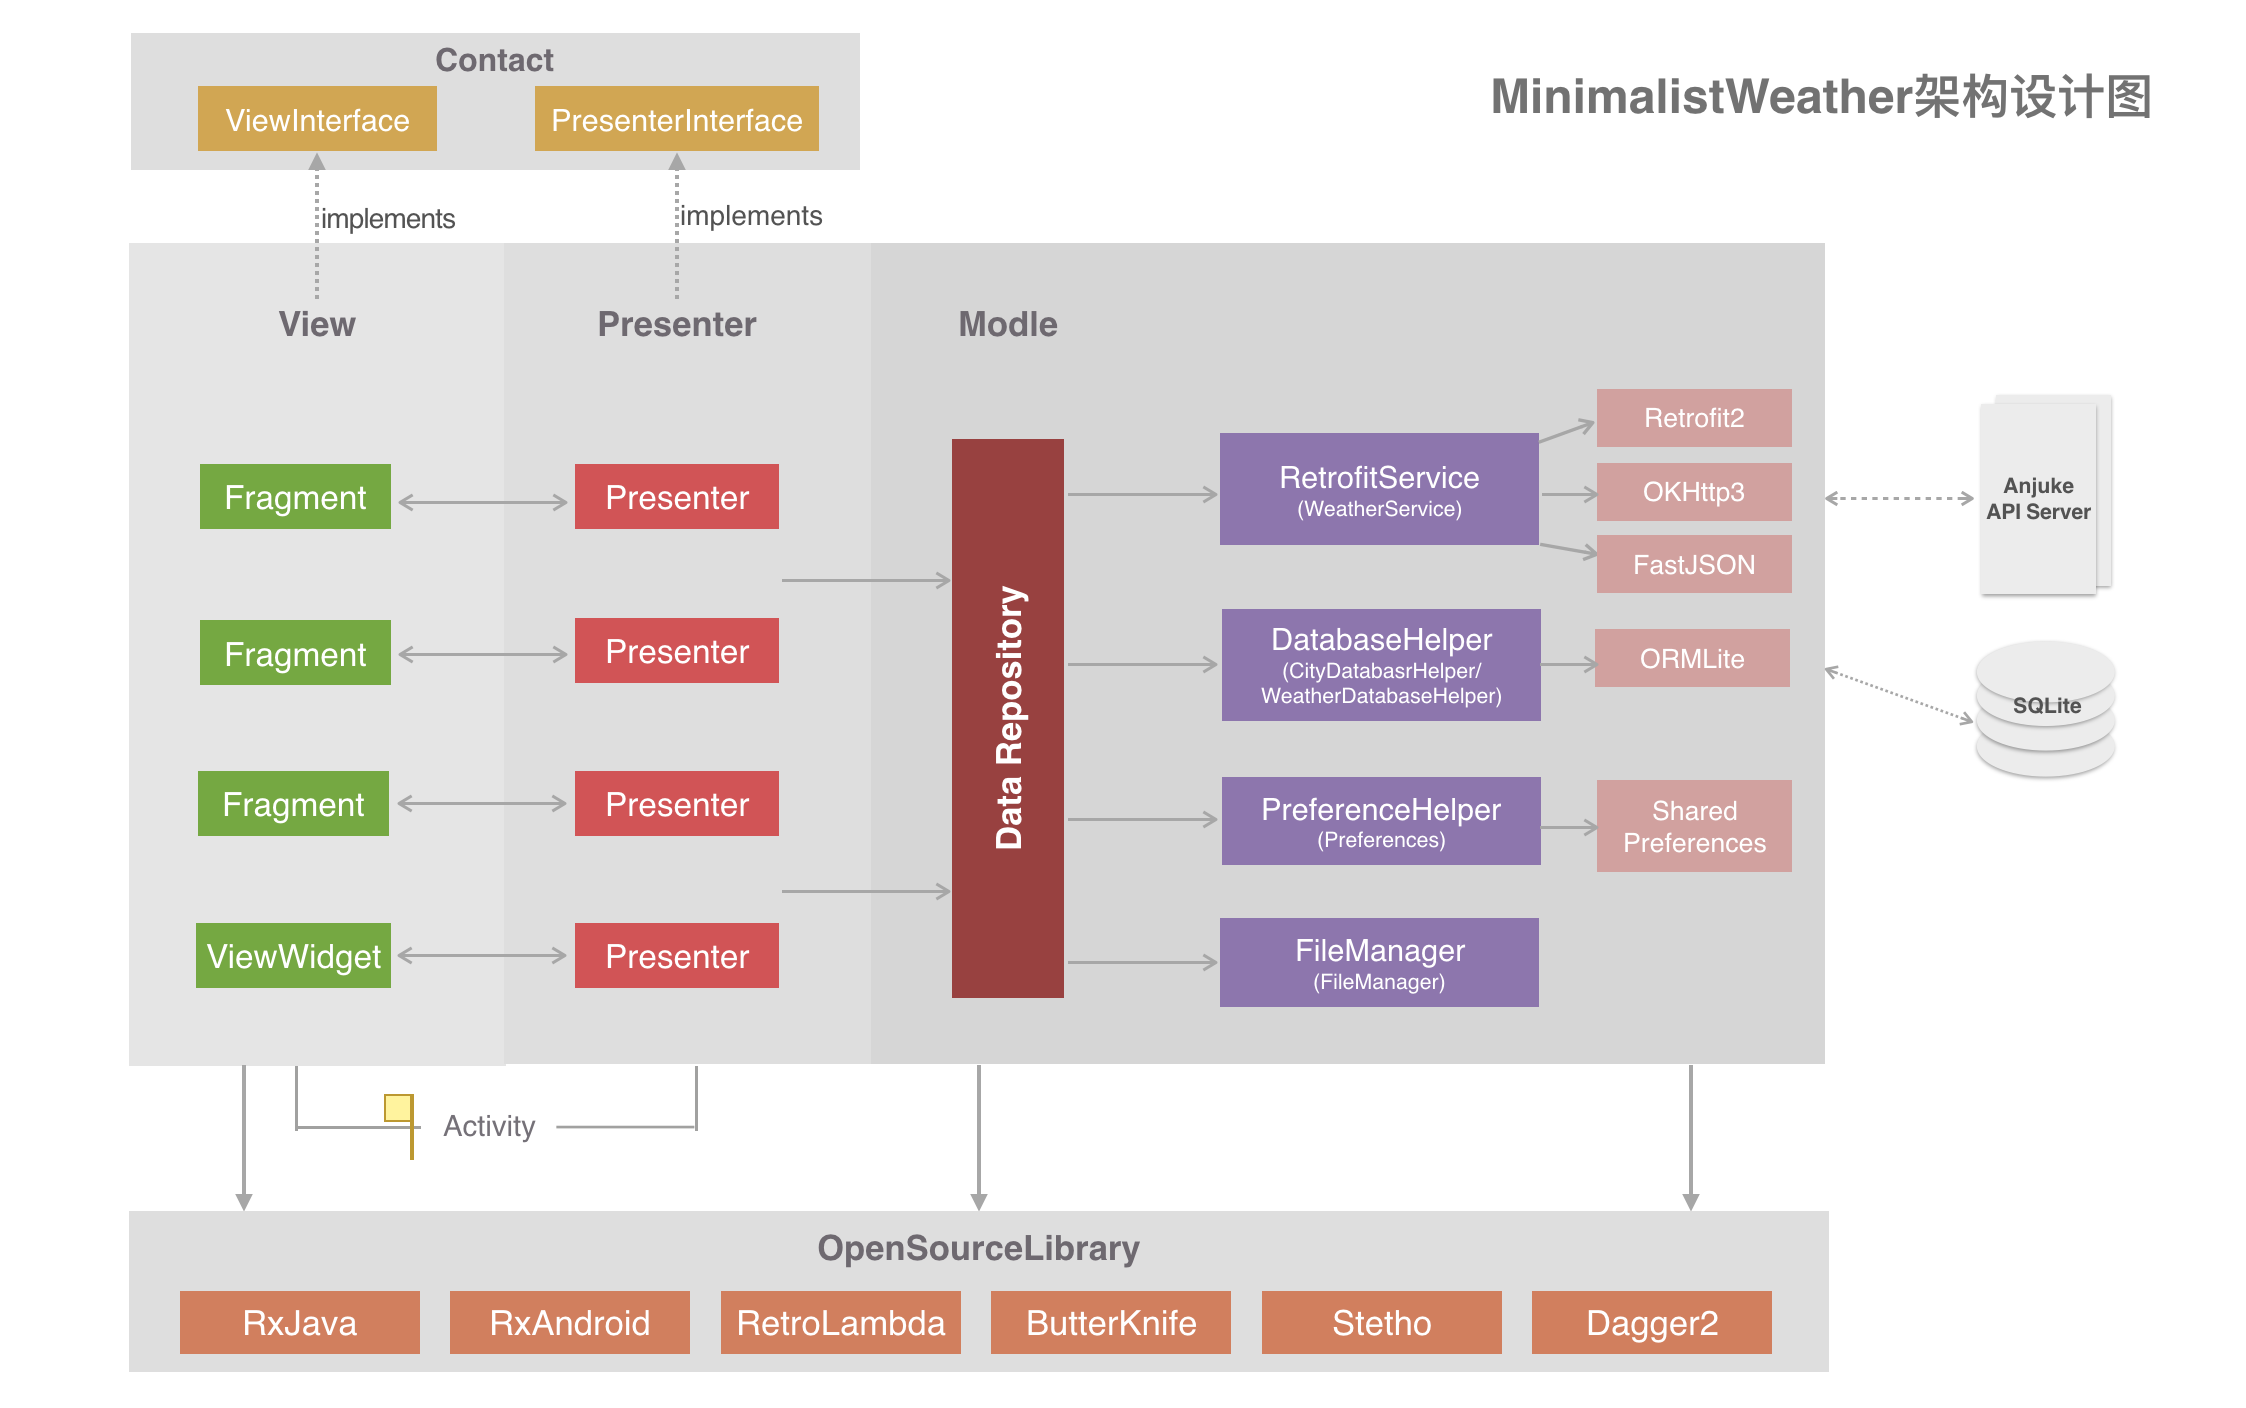
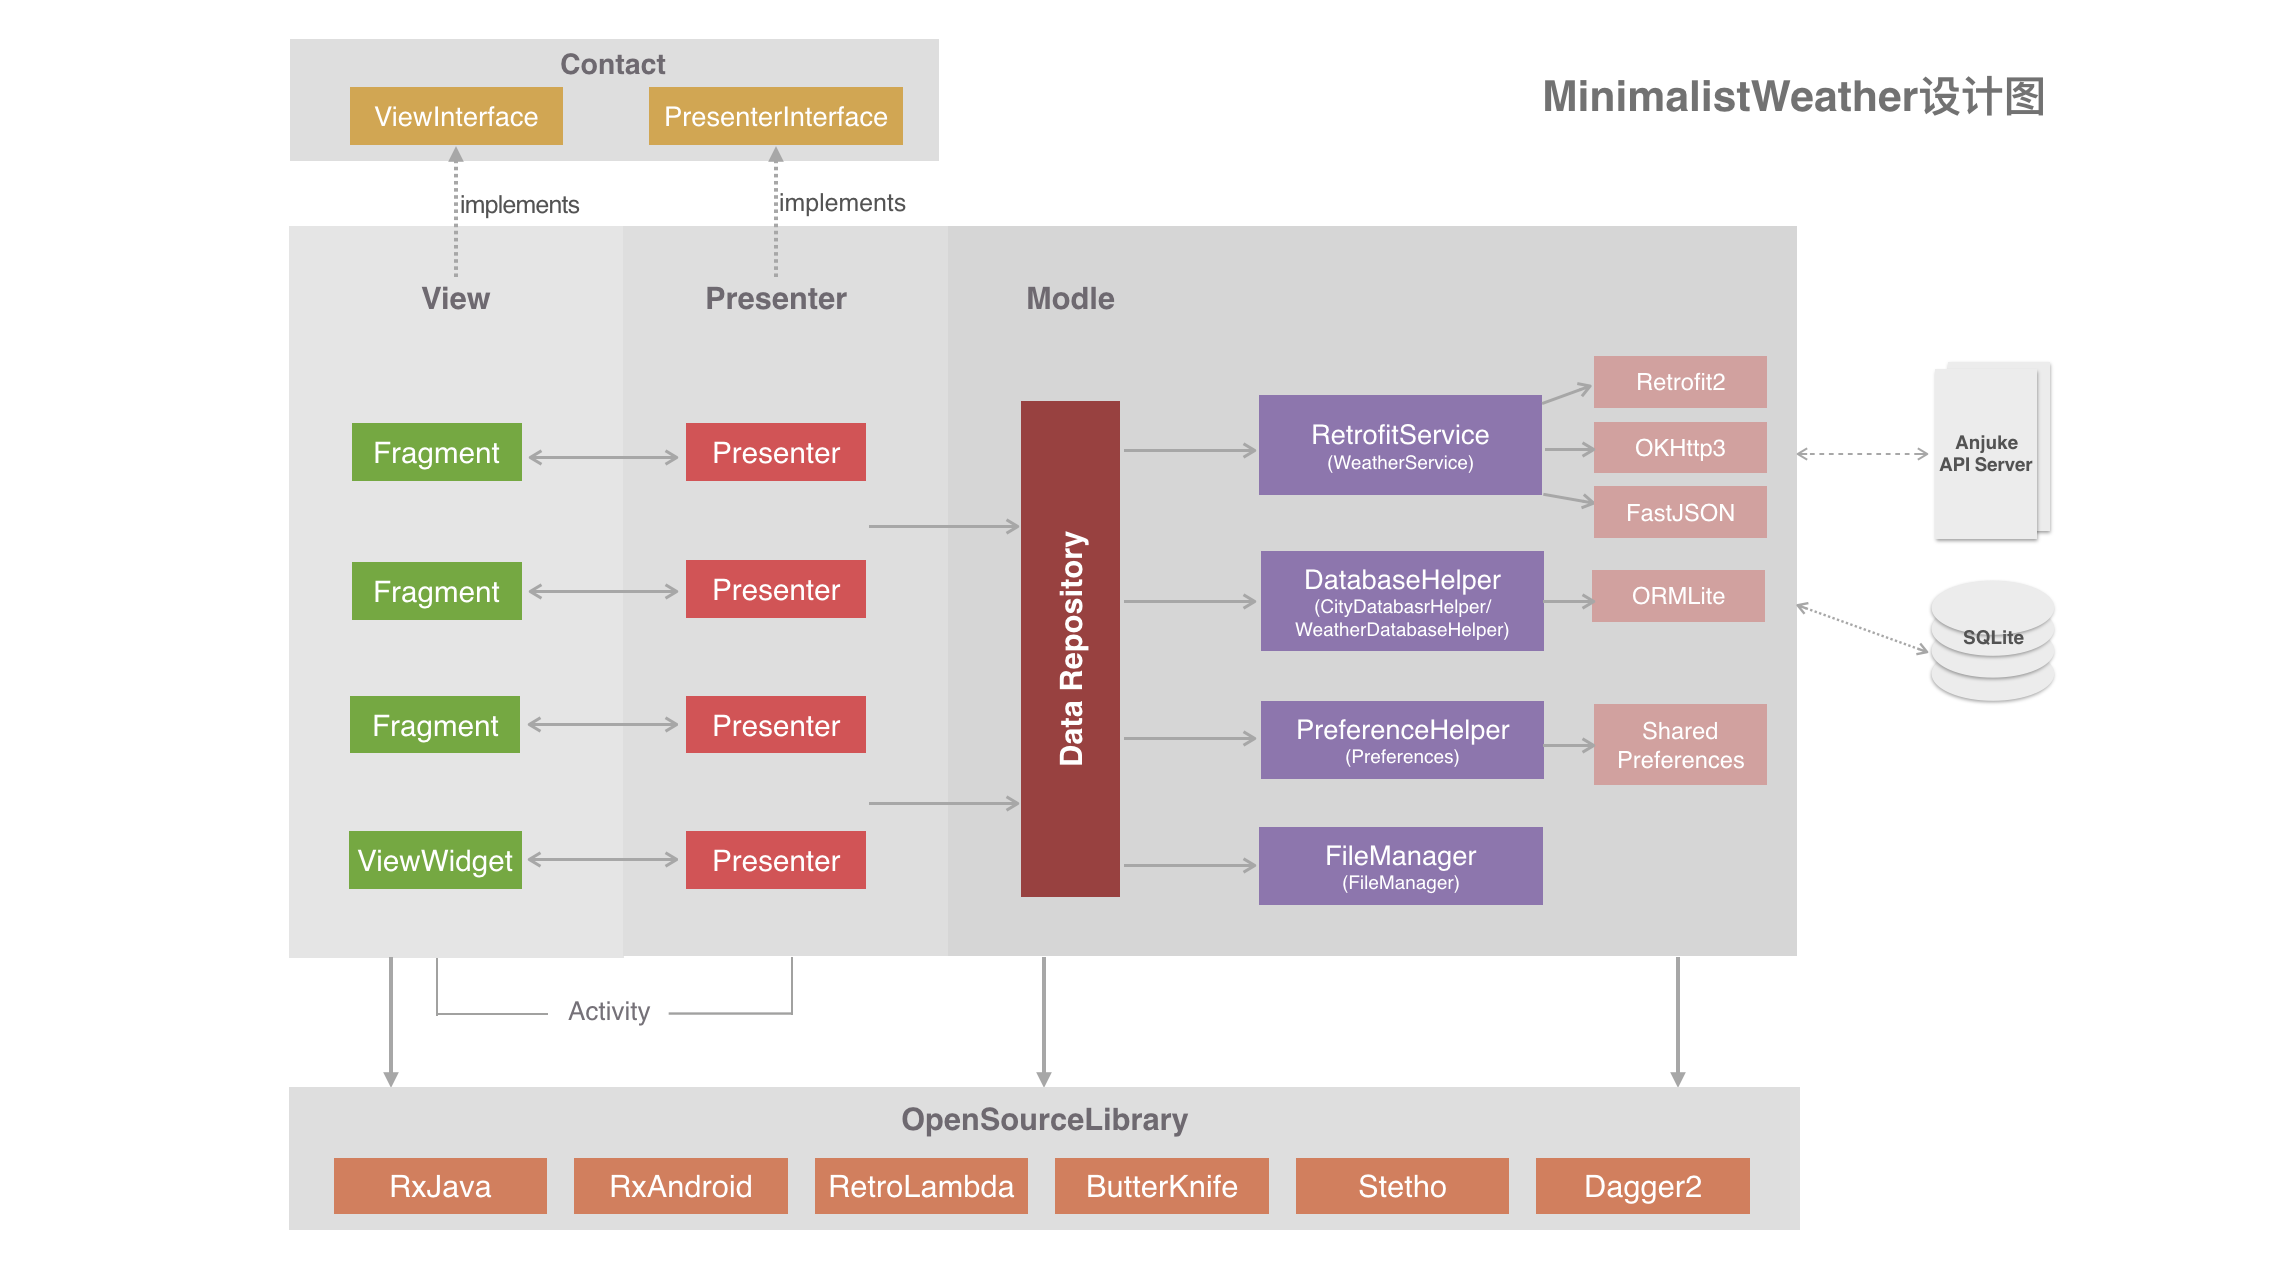
更新readme文档

diff --git a/README.md b/README.md
@@ -3,9 +3,9 @@
 
 ## 一、简介
 
-**MinimalistWeather是Android平台上一款开源天气App，目前还在开发中。项目基于MVP架构，采用时下各主流开源库实现。开发此项目主要是为展示各种开源库的使用方式以及Android项目的架构方案，并作为团队项目开发规范的一部分。**
+**MinimalistWeather是Android平台上一款开源天气App，目前还在开发中。项目基于MVP架构，采用各种主流开源库实现。开发此项目主要是为展示各种开源库的使用方式以及Android项目的架构方案，并作为团队项目开发规范的一部分。**
 
-采用的开源库主要包括：
+采用的开源库包括：
 
 * RxJava
 * Retrofit2
@@ -16,10 +16,10 @@
 * RetroLambda
 * Stetho
 
-**从这个项目中你能学到什么？**
+**本项目还展示了：**
 
-* MVP在实际项目中的应用；
-* 时下热门的各种开源框架的使用方法；
+* MVP+RxJava在实际项目中的应用，MVP中RxJava生命周期的管理...；
+* 上述罗列的各种开源框架的使用方法；
 * Java8 Lambda表达式和Stream API的用法；
 * 怎样适配Material Design；
 * ToolBar、RecycleView、CardView、CoordinatorLayout等新控件的用法；
@@ -28,9 +28,30 @@
 * 代码混淆配置；
 * 怎样快速开发架构一款Android App。
 
-## 二、项目架构设计图
+## 二、项目结构设计图
 
 ![架构设计图](framework_minimalist_weather.png)
 
 ## 三、项目目录结构介绍
+
+### App Module包结构
+
+```Java
+-me.baron.weather
+  + activities
+  + contracts       //契约类
+  - models          //MVP中的Model层
+    + db
+    + http
+    + preferences
+    + repository    //-->Model层中的Data Repository模块，对Presenter层屏蔽数据来源和细节，并将Model成中的数据包装成Rx Observer
+  + presenters      //MVP中的Presenter层
+  + utils
+  - views           //MVP中的View层
+    + adapters
+    + fragments
+    + widget
+  - AppConstants.java  //App全局常量
+  - WeatherApp.java    //Application类
+```
 
